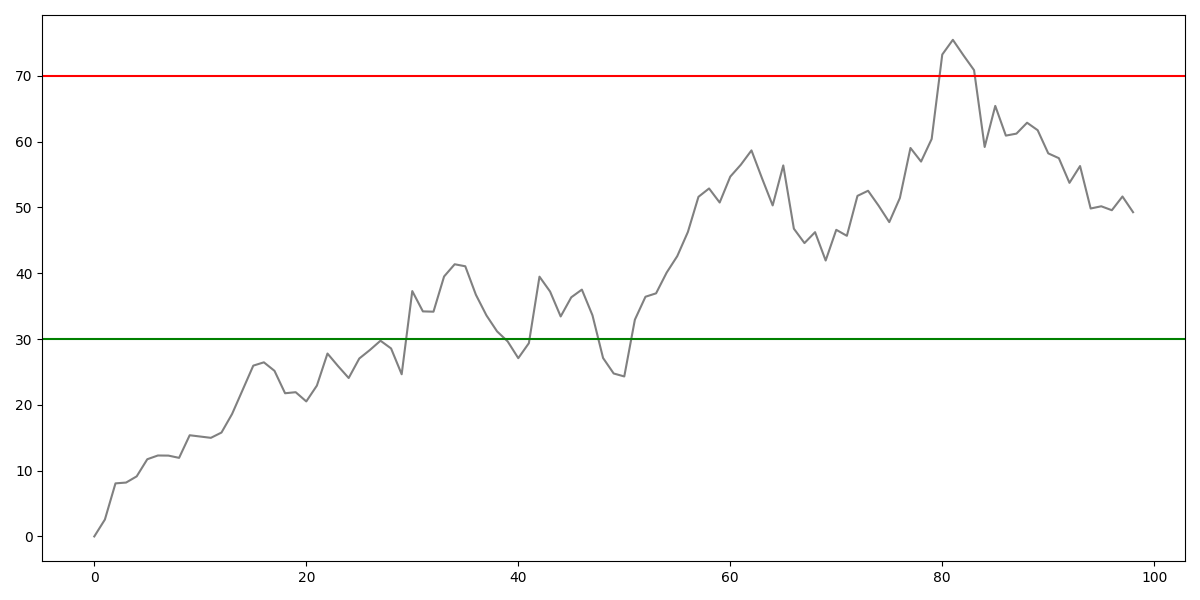
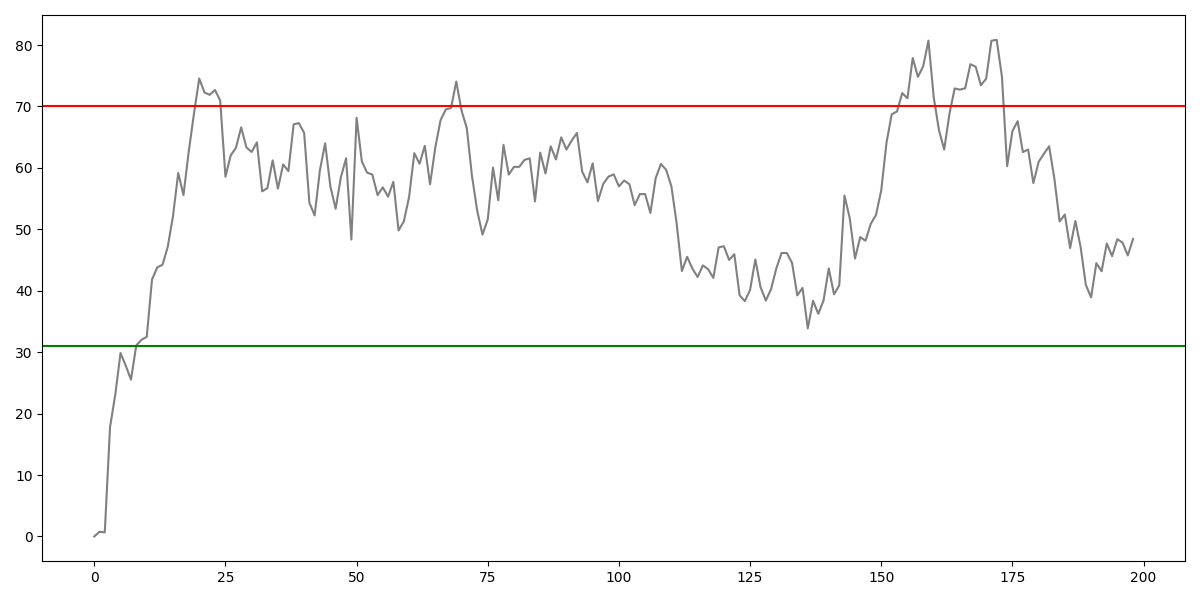
update

diff --git a/backend/forex-hunter/src/index.ts b/backend/forex-hunter/src/index.ts
@@ -11,12 +11,23 @@ import { withRetry } from './utils/index.js';
 import { redisClient } from './database/index.js';
 import { createAlert } from './common/alerts.js';
 import { HunterState } from './types/index.js';
+import twelvedata from "twelvedata";
+import { timeseriesToKline } from './utils/format.js';
 
 dotenv.config();
 
 export const __filename = fileURLToPath(import.meta.url);
 export const __dirname = path.dirname(__filename);
 export const root = path.join(__dirname, '..');
+
+interface Kline {
+  datetime: string;
+  open: string;
+  high: string;
+  low: string;
+  close: string;
+  volume: string;
+}
 
 export class HunterBot {
   public state: HunterState;
@@ -27,13 +38,12 @@ export class HunterBot {
   constructor() {
     const requiredEnvVars = [
       "NODE_ENV",
-      "SERVICE_NAME",
       "SHOW_PLOTS",
-      "BINANCE_KEY",
-      "BINANCE_SECRET",
-      "COINGECKO_API_KEY",
+      // "BINANCE_KEY",
+      // "BINANCE_SECRET",
+      // "COINGECKO_API_KEY",
       "START_AT",
-      "REDIS_HOST"
+      // "REDIS_HOST"
     ];
 
     for (const envName of requiredEnvVars) {
@@ -185,7 +195,7 @@ export class HunterBot {
 
         this.state.iteration += 1
         this.state.updated_at = Date.now()
-        
+
         await this.sleep(60_000)
       } catch (err) {
         this.state.status = 'error'
@@ -193,11 +203,35 @@ export class HunterBot {
       }
     }
   }
+
+  public async test() {
+    console.log("test")
+
+    const client = twelvedata({ key: "39394ff16ece4c249d9952042a465936" });
+
+    const params = {
+      symbol: "EUR/USD",
+      interval: "15min",
+      outputsize: 200,
+    };
+
+    client
+      .timeSeries(params)
+      .then((data) => {
+        const klines = timeseriesToKline(data.values);
+        console.log(klines);
+
+        const rsiParams = { klines, mark: 6, filename: 'rsi.png', show: this.config.show_plots }
+        const result = relativeStrengthIndex(rsiParams);
+      })
+      .catch((err) => console.error(err));
+
+  }
 }
 
 async function main() {
   const bot = new HunterBot();
-  await bot.run();
+  await bot.test();
 }
 
 main();

diff --git a/backend/forex-hunter/src/utils/format.ts b/backend/forex-hunter/src/utils/format.ts
@@ -1,0 +1,21 @@
+type TwelveDataCandle = {
+  datetime: string;
+  open: string | number;
+  high: string | number;
+  low: string | number;
+  close: string | number;
+};
+
+type BinanceKlineSimple = [number, string, string, string, string];
+
+export function timeseriesToKline(
+  candles: TwelveDataCandle[]
+): BinanceKlineSimple[] {
+  return candles.reverse().map(({ datetime, open, high, low, close }) => [
+    new Date(datetime.replace(' ', 'T') + 'Z').getTime(), 
+    open.toString(),
+    high.toString(),
+    low.toString(),
+    close.toString(),
+  ]);
+}
